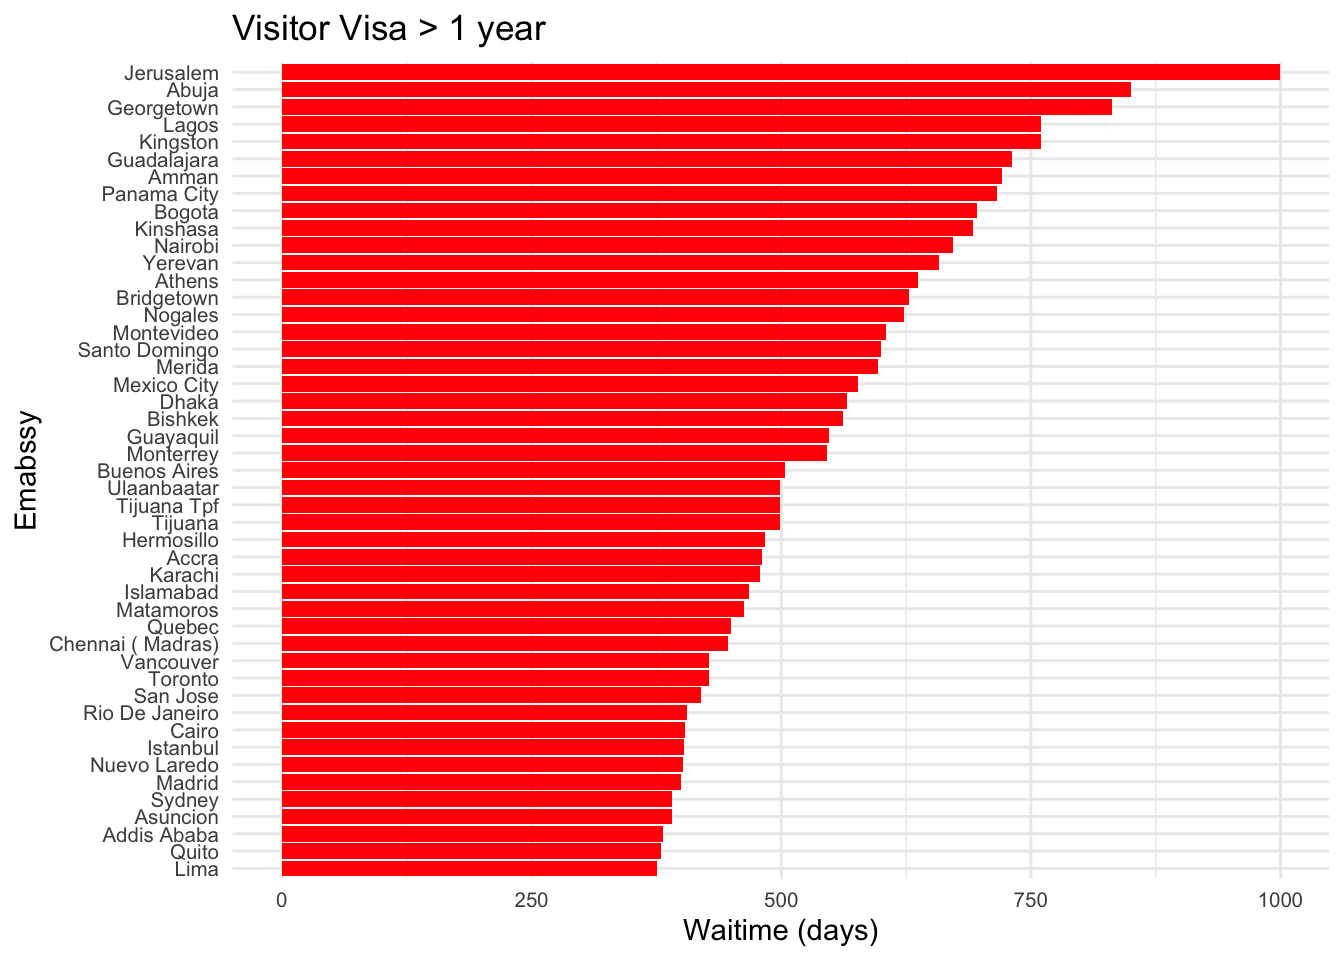
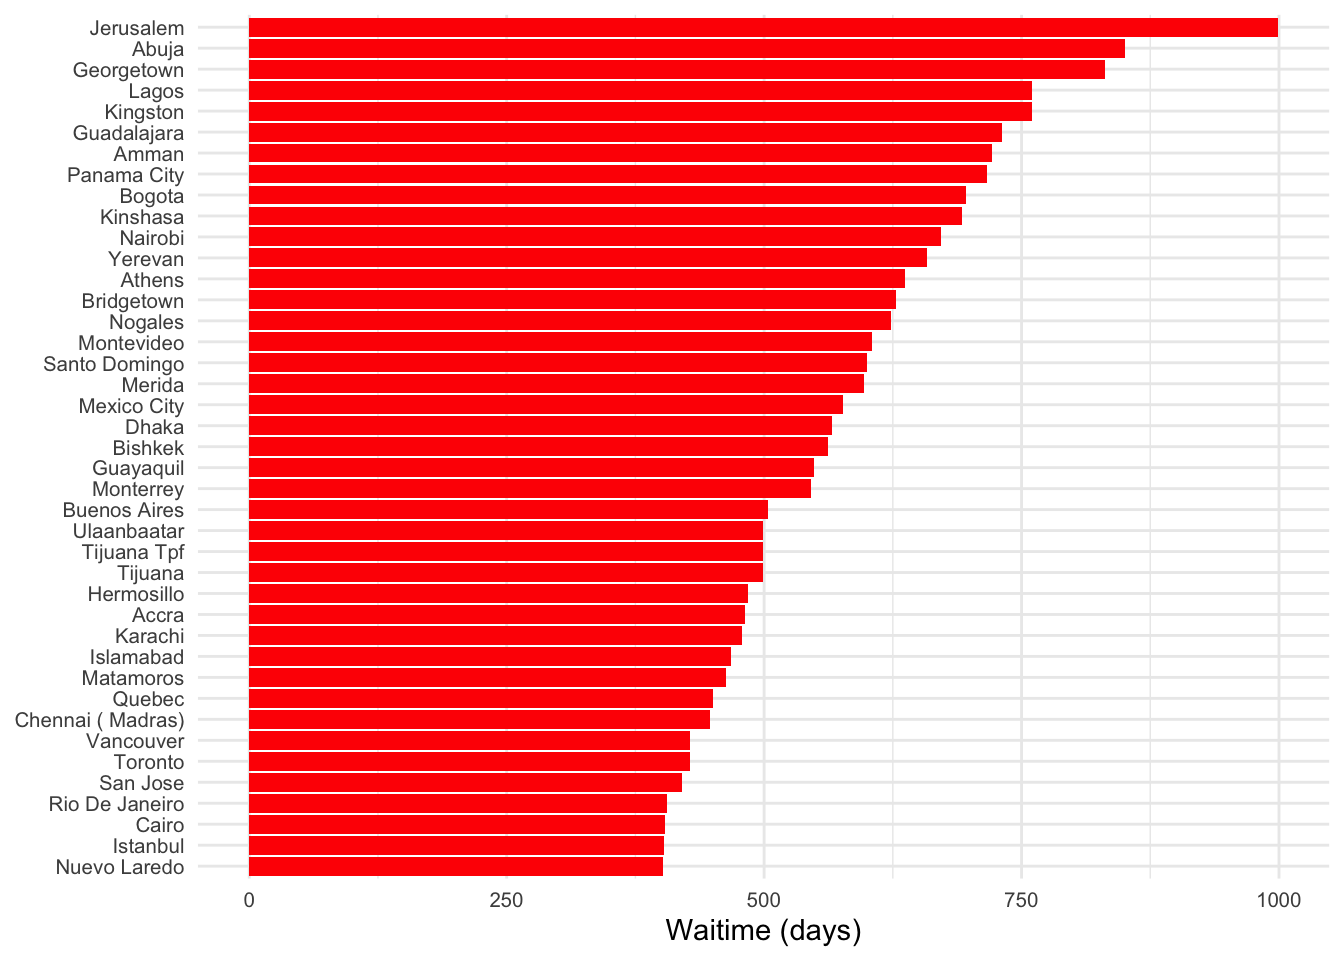
y label hide

Changed region(s): [[0.0, 0.0, 1.0, 1.0]]

diff --git a/content/_index.html b/content/_index.html
@@ -1,5 +1,5 @@
 ---
-title: "VisaLimbo"
+title: "Visa Limbo"
 author: "parthkhare"
 date: 2022-07-15T21:13:14-05:00
 # categories: ["R"]
@@ -15,12 +15,21 @@ date: 2022-07-15T21:13:14-05:00
 <h3>Visa wait times</h3>
 <p>Coivd lockdowns are more or less over. With almost 70% of global population <a href="%22https://www.nytimes.com/interactive/2021/world/covid-vaccinations-tracker.html%22">vaccinated</a>, most countries have opened their borders. But can anyone really travel ? The waiting times to get any category of visa is unimaginably long.</p>
 <p>Based on State Department <a href="https://travel.state.gov/content/travel/en/us-visas/visa-information-resources/wait-times.html">data</a>, the following post analyses visa wait times for 237 embassies across 172 countries. There results are shown for three categories, Visitor Visa, Student/Exchange Visitor Visas and All Other Non-immigrant visa.</p>
-<p>Delay for Visitor visas is the highest, based on July, 2022 average delay is around 237 days. Following embassies currently have visitor’s visa wait time for over 1 year</p>
-<p><img src="/_index_files/figure-html/unnamed-chunk-1-1.png" width="672" /></p>
-<p>Average delay for Student/Exchange Visitor Visas is 46 days, following are the embassies with maximum lags
-<img src="/_index_files/figure-html/scpdt_base-1.png" width="672" /></p>
+<p>Delay for Visitor visas is the highest, based on July, 2022 average delay is around 237 days.</p>
+</div>
+<div id="visitor-visa" class="section level2">
+<h2>Visitor Visa</h2>
+<p><img src="/_index_files/figure-html/unnamed-chunk-1-1.png" width="672" />
+<a href="https://travel.state.gov/content/travel/en/us-visas/visa-information-resources/wait-times.html">Source:State Department</a></p>
+</div>
+<div id="studentexchange-visitor-visas" class="section level2">
+<h2>Student/Exchange Visitor Visas</h2>
+<p>Average delay: 46 days, following are the embassies with maximum lags
+<img src="/_index_files/figure-html/scpdt_base-1.png" width="672" />
+<a href="https://travel.state.gov/content/travel/en/us-visas/visa-information-resources/wait-times.html">Source:State Department</a></p>
 <p>Average delay for All Other Non-immigrant Visas is 68 days, following are countries with longest delays
-<img src="/_index_files/figure-html/unnamed-chunk-2-1.png" width="672" /></p>
+<img src="/_index_files/figure-html/unnamed-chunk-2-1.png" width="672" />
+<a href="https://travel.state.gov/content/travel/en/us-visas/visa-information-resources/wait-times.html">Source:State Department</a></p>
 <p>Questions?
 Contact: <a href="mailto:visalimbo@gmail.com" class="email">visalimbo@gmail.com</a></p>
 </div>
